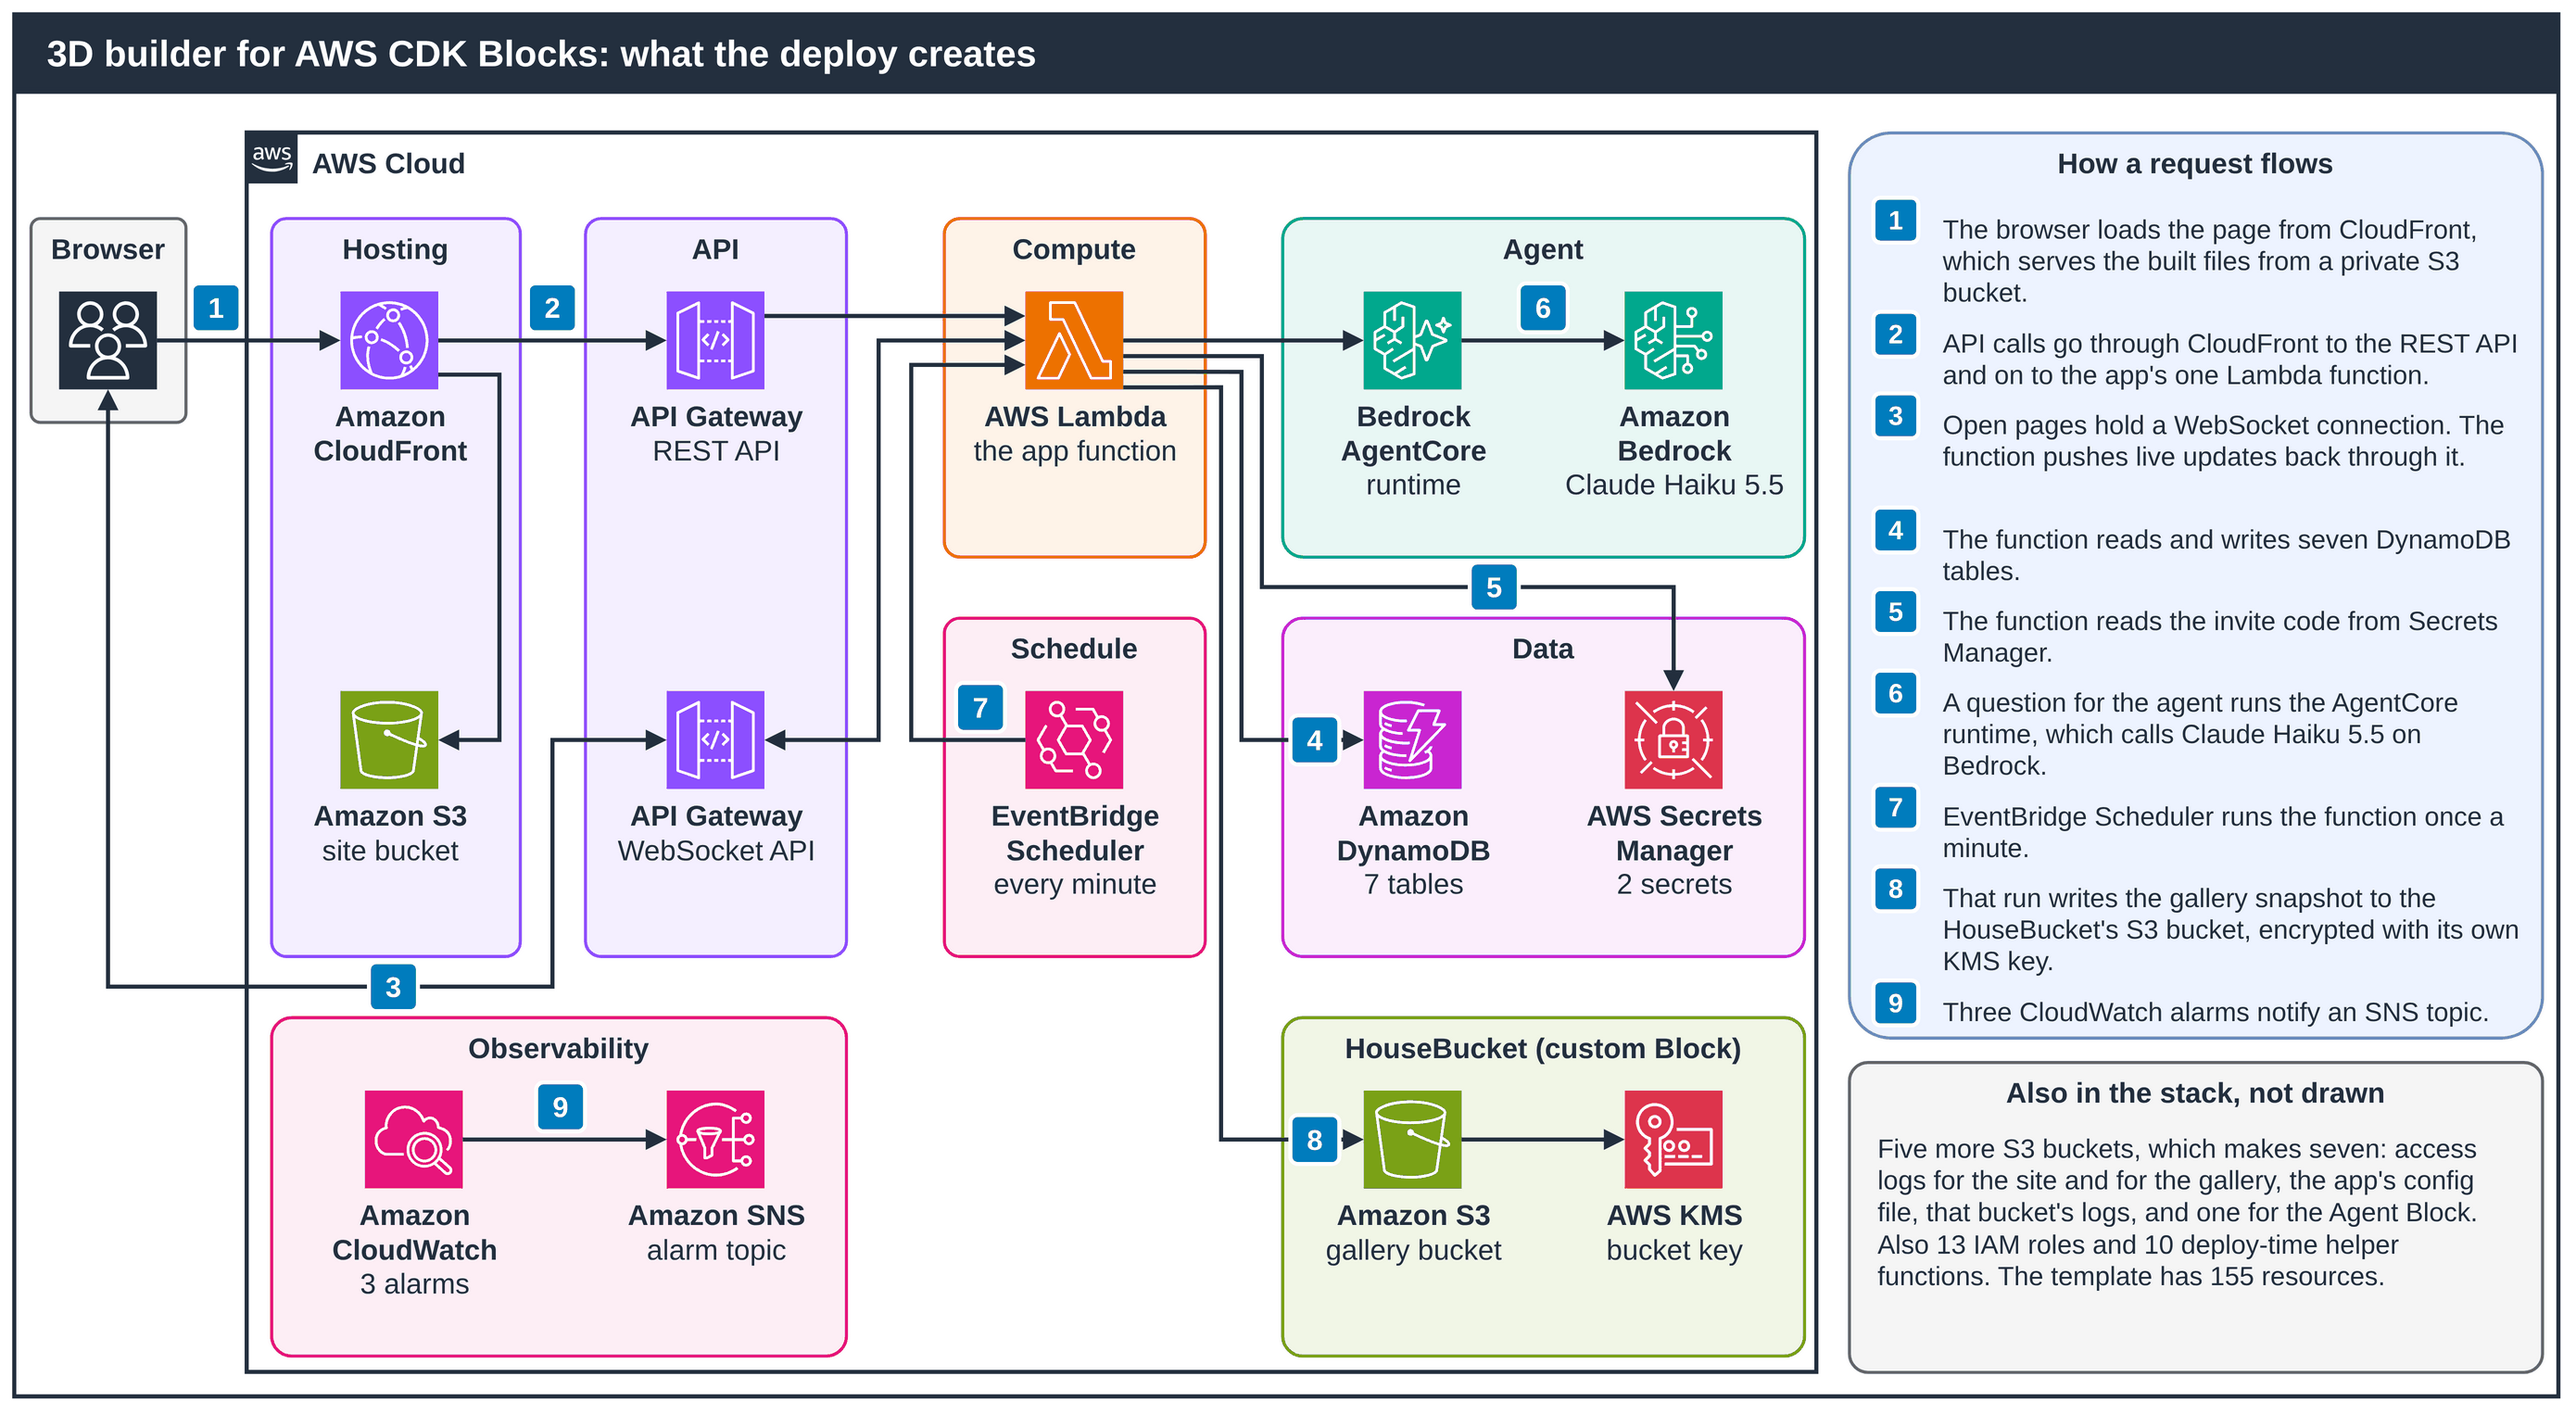
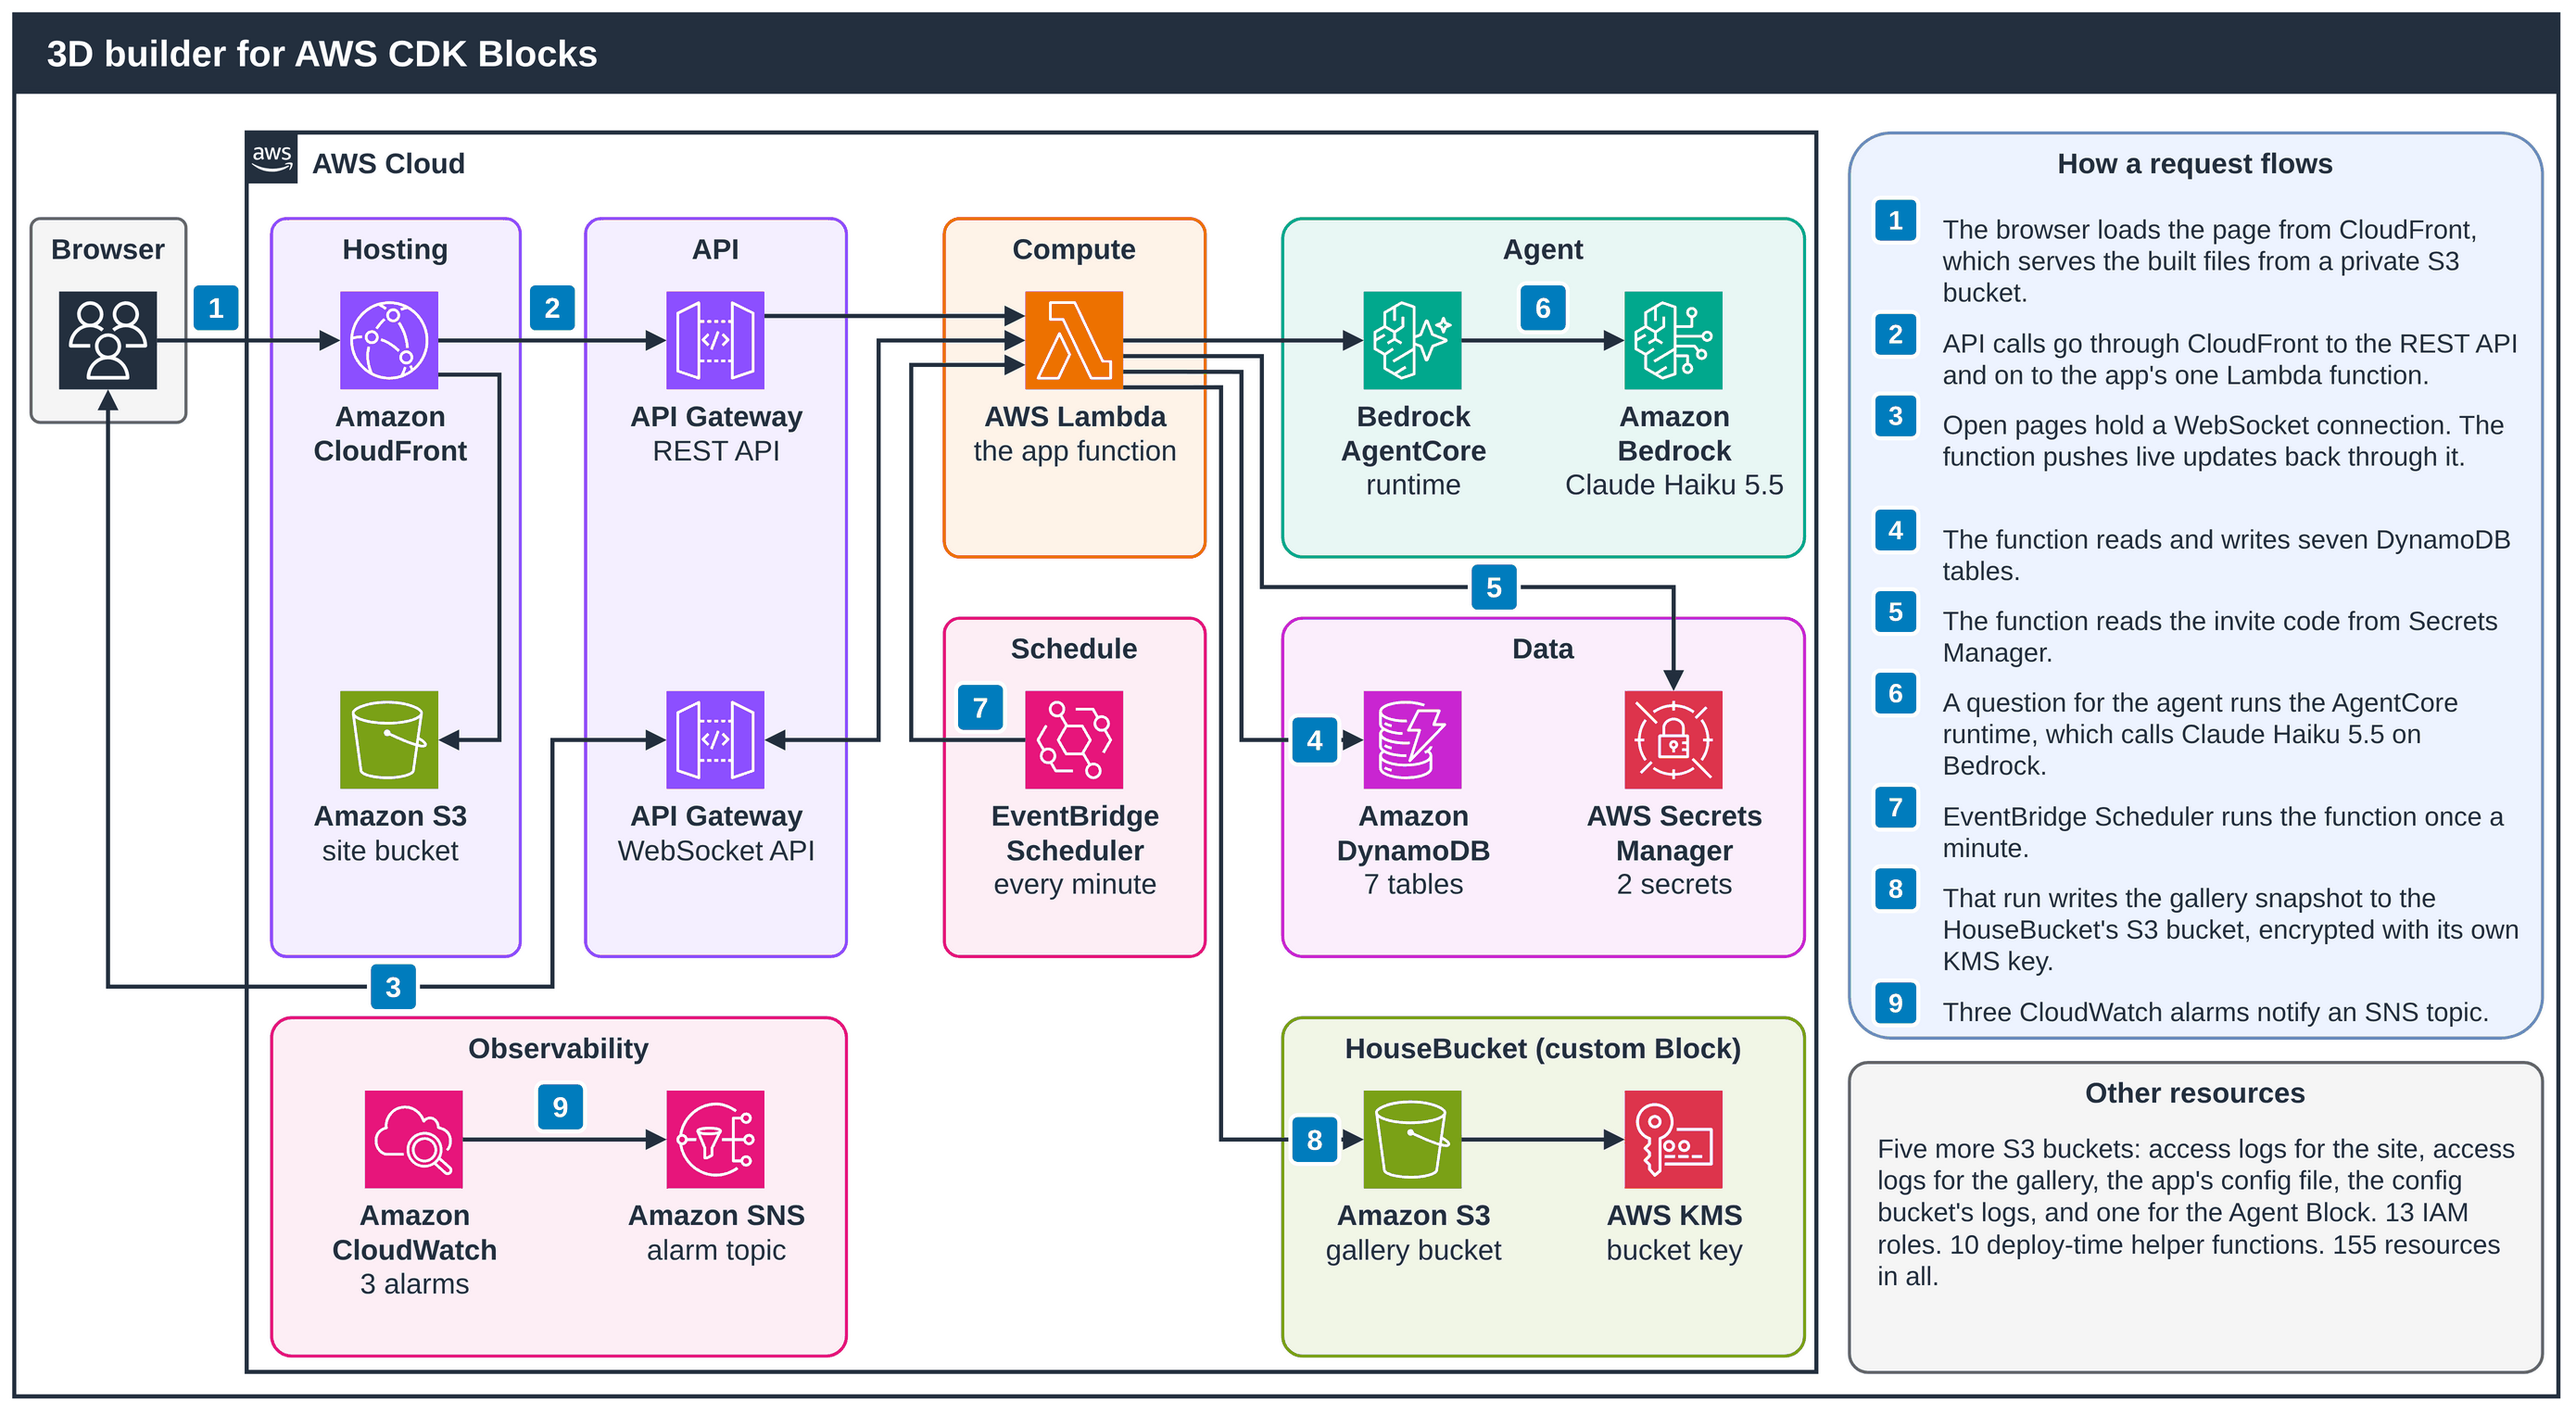
Title the architecture diagram with the app's name alone, and list the other resources under that heading

Changed region(s): [[0.7115, 0.77, 0.9899, 0.924], [0.2475, 0.0308, 0.4022, 0.0616]]

diff --git a/README.md b/README.md
@@ -29,9 +29,9 @@ There's no hosted copy of this app. To see it, run it on your machine or deploy 
 
 ## Architecture
 
-![Architecture diagram of the stack that the deploy creates, with nine numbered paths and a legend that describes each one. A browser loads the page from a CloudFront distribution backed by an S3 bucket. CloudFront passes API calls to an API Gateway REST API and on to one Lambda function, and open pages hold a connection to an API Gateway WebSocket API that the function pushes updates through. The function uses seven DynamoDB tables, two Secrets Manager secrets, an Amazon Bedrock AgentCore runtime that calls Claude Haiku 5.5 in Amazon Bedrock, and the HouseBucket custom Block's S3 bucket with its own KMS key. EventBridge Scheduler runs the function every minute, and CloudWatch alarms notify an SNS topic.](assets/architecture.png)
+![Architecture diagram of the app's AWS stack, with nine numbered paths and a legend that describes each one. A browser loads the page from a CloudFront distribution backed by an S3 bucket. CloudFront passes API calls to an API Gateway REST API and on to one Lambda function, and open pages hold a connection to an API Gateway WebSocket API that the function pushes updates through. The function uses seven DynamoDB tables, two Secrets Manager secrets, an Amazon Bedrock AgentCore runtime that calls Claude Haiku 5.5 in Amazon Bedrock, and the HouseBucket custom Block's S3 bucket with its own KMS key. EventBridge Scheduler runs the function every minute, and CloudWatch alarms notify an SNS topic.](assets/architecture.png)
 
-Open the picture to read it at full size; its legend describes each numbered path. The stack has seven S3 buckets, and the diagram draws two of them: the site bucket and the gallery bucket. The other five are an access-log bucket for each of those two, the bucket that holds the app's config file, that bucket's own log bucket, and one that the Agent Block keeps. Also in the template's 155 resources and not drawn: 13 IAM roles, 10 deploy-time helper functions, a Step Functions state machine, three CloudFront functions with an edge key-value store, a second KMS key for the alarm topic and three log groups.
+Open the picture to read it at full size; its legend describes each numbered path. The stack has seven S3 buckets: the site bucket and the gallery bucket in the diagram, an access-log bucket for each of those two, the bucket that holds the app's config file, that bucket's own log bucket, and one that the Agent Block keeps. The other resources include 13 IAM roles, 10 deploy-time helper functions, a Step Functions state machine, three CloudFront functions with an edge key-value store, a second KMS key for the alarm topic and three log groups. The template has 155 resources in all.
 
 | Block | Job here |
 |---|---|
